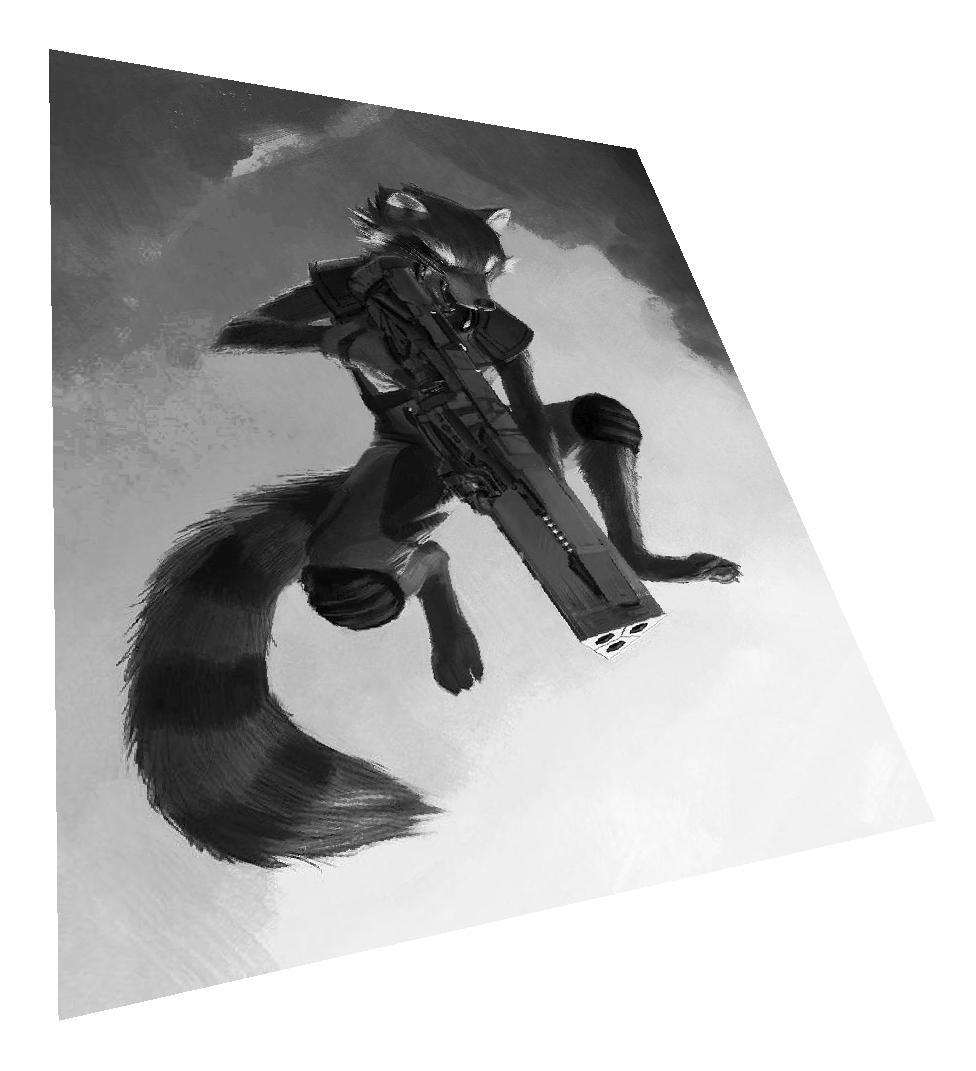
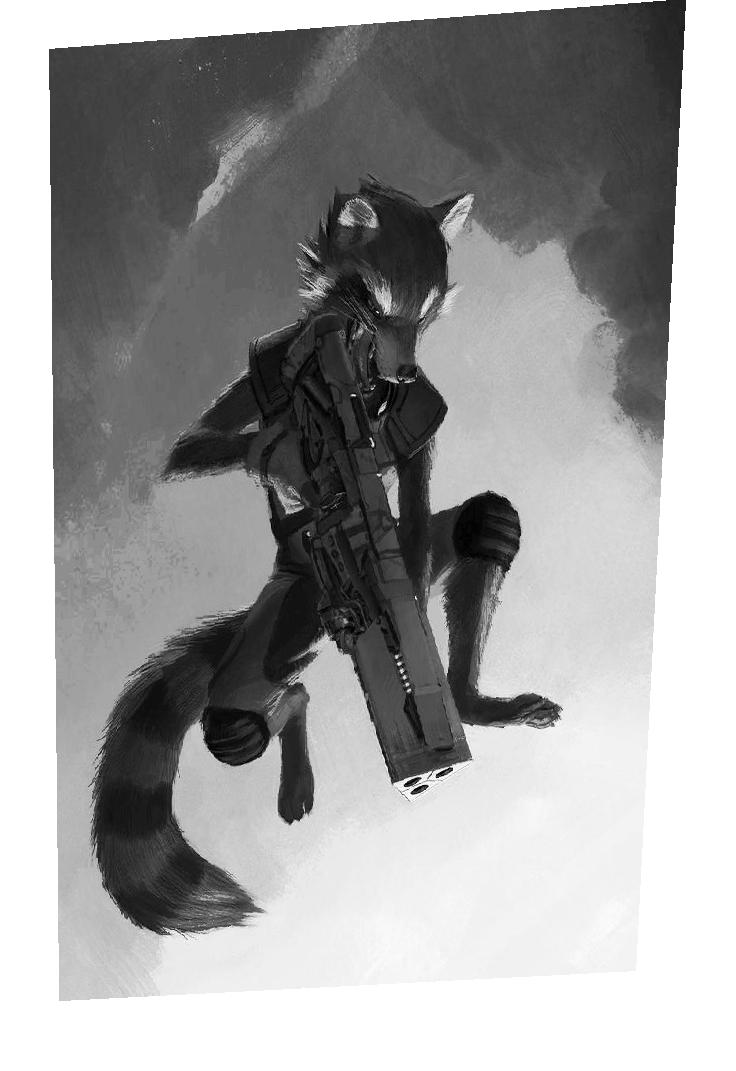
last

diff --git a/IMAGECORRECTION2.m b/IMAGECORRECTION2.m
@@ -1,9 +1,13 @@
 % IMAGECORRECTION2;
 % Correction of a projectively distorted image
 %%----- Data for Correction -------------------------------------
-PDI=imread('DI2CamelsBBW.png');
-nwt=[ 50,50];   net=[100,910];
-swt=[590, 60];   set=[540,860];
+%PDI=imread('DI2CamelsBBW.png');
+%PDI=imread('DI2My Rocket.jpg');
+PDI=imread('Cher.jpg');
+% nwt=[50,50];   net=[8,680];
+% swt=[1000, 60];   set=[972,635];
+nwt=[10,30];   net=[60,725];
+swt=[535, 30];   set=[440,288];
 rwh=1.5; 
 %--------------------------------------------------------------------
 Name=['Distorted image of size ',vector2str(size(PDI),7,1)];
@@ -29,12 +33,12 @@ YT=sf*([nwt(2),net(2),set(2),swt(2)]-L);
 H=ProjectiveTransform2(X,Y,XT,YT) % H is the inverse transform matrix 
 %-------------------- Image correction ------------------------------
 tic;
-%A=ImageTransform2(PDI,H,K,sf);  Name='I2';
-A=ImageTransform1(PDI,H,K,sf);  Name='I1';
+A=ImageTransform2(PDI,H,K,sf);  Name='I2';
+%A=ImageTransform1(PDI,H,K,sf);  Name='I1';
 %A=ImageTransform(PDI,H,K,sf);   Name='I0';
 printstring([Name,' correction time - '],[number2str(toc,7,2),' sec']);
 Title=['Corrected by ',Name,' - ',CorSize];
-ShowImageBW(A,Title);
+ShowImageBW(A,Title); pause
 %-------------------- Median filtration -----------------------------
 W5=[[0,1,0];...
     [1,1,1];...
@@ -45,10 +49,10 @@ W9=[[1,1,1];...
     [1,1,1]];
 %
 %FA=MedianFiltration(A,W5); FName='W5';
-%FA=MedianFiltration(A,W9);  FName='W9';
-%ShowImageBW3(FA,['After median filtration by ',FName]);
+FA=MedianFiltration(A,W9);  FName='W9';
+ShowImageBW(FA,['After median filtration by ',FName]);
 %---------------------- Save image ----------------------------------
-%FileName=[Title,'.png'];
-%imwrite(A,FileName);
+FileName=[Title,'.png'];
+imwrite(FA,FileName);
 
 

diff --git a/FINDMATRIX.m b/FINDMATRIX.m
@@ -3,7 +3,7 @@
 %--------------------------------------------------------------          % the window size  
 L=12; WS=[0, L, 0, L];  % the window size  
 % IName='CamelsBBW.png';
-IName = 'My Rocket.jpg';
+IName='My Rocket.jpg';
 A=imread(IName); 
 ShowImageRGB(A,IName); 
 [h,w]=size(A);
@@ -16,8 +16,8 @@ sw=[m+h,m];   se=[m+h,m+w];  %
 [X,Y] = Corners2XY(nw,ne,sw,se,1); % X,Y - 2-vectors
 ShowCoordinates(X,Y,7,3,'Initial corners - X,Y: ');
 %----- Corners of distorted image -----------------------------
-nwt=nw+[0,0];  net=ne+[ 100,-150];
-swt=sw+[0,10]; set=se+[-200,150];
+nwt=nw+[0,0];  net=ne+[ 50,-100];
+swt=sw+[0,10]; set=se+[-50,-150];
 ht=2*m+max((swt(1)-nwt(1)),(set(1)-net(1)));
 wt=2*m+max((net(2)-nwt(2)),(set(2)-swt(2)));
 [XT,YT] = Corners2XY(nwt,net,swt,set,1); % X,Y - 2-vectors
@@ -32,5 +32,5 @@ hold on
 % Evaluation of the transform matrix on 
 % the base of coordinates of 4+4 points only
 T=ProjectiveTransform2(XT,YT,X,Y) 
-ShowMatrixHP2(T,'T',-10.0,-5.0);
+ShowMatrixHP2(T,'T',0.15,11.0);
 hold off

diff --git a/IMAGEDISTORTION2.m b/IMAGEDISTORTION2.m
@@ -2,6 +2,7 @@
 % Projective distortion of an image
 %--------------------------------------------------------------------
 sz=[int2str(ht),'x',int2str(wt)];
+%IName='CamelsBBW.png';
 IName='My Rocket.jpg';
 Prompt='\color{blue}   - press any key to start transform';
 ShowImageBW(A,[IName,Prompt]); pause

diff --git a/MedianFiltration.m b/MedianFiltration.m
@@ -27,5 +27,5 @@ end;
 close(h);
 G=uint8(G);
 printstring(['Median filtration time - '],[number2str(toc,7,2),' sec']);
-ShowImageBW3(G,'MF');
+ShowImageBW(G,'MF');
 end
